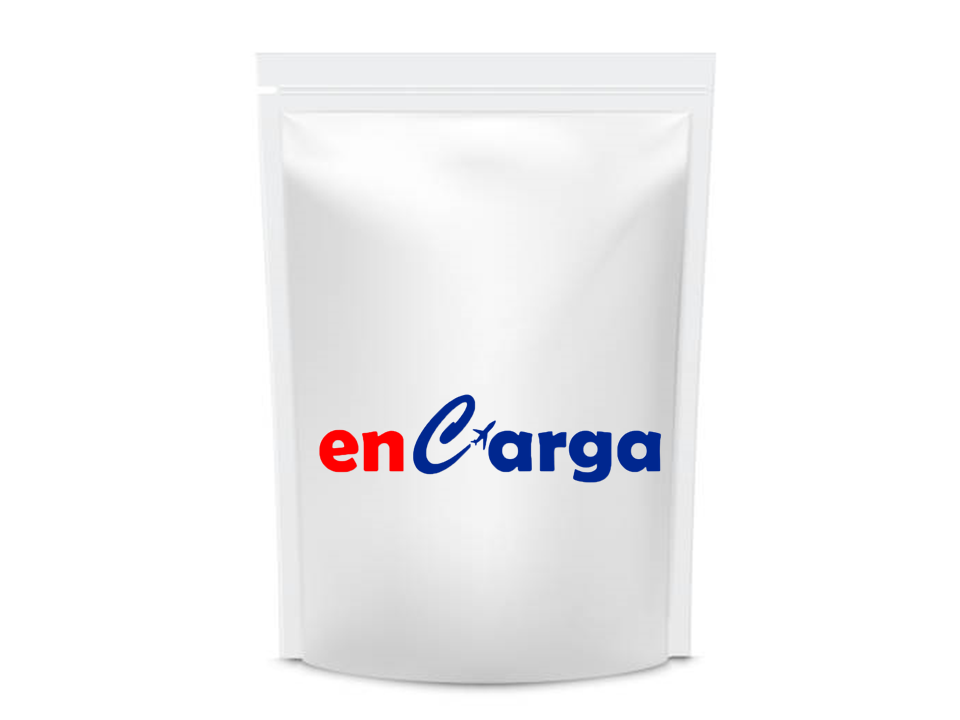
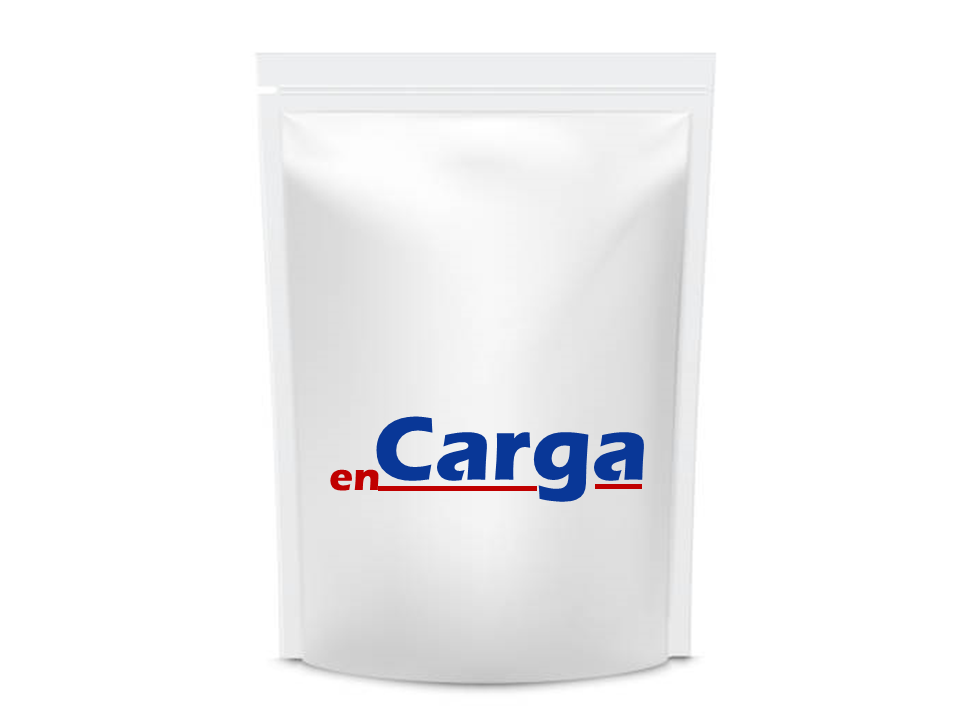
Final

Changed region(s): [[0.3125, 0.55, 0.6875, 0.7028]]

diff --git a/src/components/AboutApp.tsx b/src/components/AboutApp.tsx
@@ -10,19 +10,14 @@ import {
 export const AboutApp = () => {
   return (
     <ScrollView>
-      <Text style={{...styles.text, fontSize: 26}}>Estimado Cliente</Text>
       <Text style={{...styles.text, fontSize: 18}}>
         • enCarga es una Agencia de Envíos radicada en Ecuador con destino a
         Cuba.
       </Text>
       <Text style={{...styles.text, fontSize: 18}}>
-        • Cada artículo marcado con un número doce entre paréntesis (12)
-        significa que está comprando la docena.
-      </Text>
-      <Text style={{...styles.text, fontSize: 18}}>
-        • Cada artículo tiene un precio marcado de venta por menor, al alcanzar
-        o exceder las seis (6) unidades podrá beneficiarce de un precio de
-        productos por mayor, con un costo menor.
+        • Hacemos envíos para uso personal, o con fines comerciales. Su compra
+        se convertirá en por mayor al alcanzar o sobrepasar los 6 artículos de
+        un mismo producto, o bien los 5 bultos en su compra total.
       </Text>
       <Text style={{...styles.text, fontSize: 18}}>
         • Cada articulo marcado con una Triple A (AAA) significa que es una
@@ -30,27 +25,21 @@ export const AboutApp = () => {
         original.
       </Text>
       <Text style={{...styles.text, fontSize: 18}}>
-        • Todos los productos de la categoría Combos tienen el costo de envío
-        incluido en el precio marcado.
+        • Algunos artículos que exceden los 10kg no son entregados en su
+        domicilio; dichos productos deben ser retirados por el remitente en la
+        oficina de Aduanas de Cuba de su provincia.
       </Text>
       <Text style={{...styles.text, fontSize: 18}}>
-        • Los productos de la categoría Combos que exceden los 10kg no son
-        entregados en su domicilio; dichos productos deben ser retirados por el
-        remitente en la oficina de Aduanas de Cuba de su provincia.
-      </Text>
-      <Text style={{...styles.text, fontSize: 18}}>
-        • En la sección de compras, verá un cuadro de texto donde podrá
-        describir los detalles, como tallas, números, colores, etc.
-      </Text>
-      <Text style={{...styles.text, fontSize: 18}}>
-        • Al finalizar su compra la aplicación le enviará un mensaje vía
-        WhatsApp a un asesor de la Agencia para ultimar los detalles de su
-        compra.
+        • Al finalizar su compra un asesor le contactará vía WhatsApp lo antes
+        posible para ultimar los detalles de su pedido.
       </Text>
       <Text style={{...styles.text, fontSize: 18}}>
         • Al realizar su compra será considerada como finalizada, cualquier
         pedido extra o fuera de tiempo será considerada una compra posterior
         futura.
+      </Text>
+      <Text style={{...styles.text, fontSize: 18}}>
+        • El pago lo realizará una vez terminada y embalada su compra.
       </Text>
       <Text style={{...styles.text, fontSize: 18}}>
         • Su compra será realizada en el momento indicado debido al orden lógico
@@ -62,7 +51,7 @@ export const AboutApp = () => {
       </Text>
       <Text style={{...styles.text, fontSize: 18}}>
         • Con gusto le atenderemos por mensaje de texto al WhatsApp
-        +593962914922 o +593983597192, o al correo enviospackuba@gmail.com
+        +593962914922 o +593983597192, o al correo jmirandauria@gmail.com
       </Text>
       <Text style={{...styles.text, fontSize: 18}}>
         • enCarga se reserva el derecho de admisión tanto de clientes como de

diff --git a/src/components/TandC.tsx b/src/components/TandC.tsx
@@ -18,8 +18,8 @@ export const TandC = () => {
         divididos en 10 cada dos meses.
       </Text>
       <Text style={{...styles.text, fontSize: 18}}>
-        • El peso máximo de cada paquete es de 1.50 kilogramos, con un costo de{' '}
-        {prices.oneandhalfkgPrice} USD por paquete.
+        • El peso máximo de cada paquete de misceláneas es de 1.50 kilogramos,
+        con un costo de {prices.oneandhalfkgPrice} USD por paquete.
       </Text>
       <Text style={{...styles.text, fontSize: 18}}>
         • Los artículos que excedan los 1.50 kilogramos tienen un costo mayor de
@@ -36,15 +36,11 @@ export const TandC = () => {
       </Text>
       <Text style={{...styles.text, fontSize: 18}}>
         • Consideramos una compra por mayor para comercio a partir de seis (6)
-        piezas del mismo artículo.
+        piezas del mismo artículo, ó a partir de 5 paquetes en su pedido.
       </Text>
       <Text style={{...styles.text, fontSize: 18}}>
         • Al realizar compras por mayor las marcas, colores, números, tallas,
         etc, son surtidas.
-      </Text>
-      <Text style={{...styles.text, fontSize: 18}}>
-        • No disponemos de tiendas con productos, realizamos la compra bajo
-        pedido, por lo tanto, realizamos los encargos sin especificidades.
       </Text>
       <Text style={{...styles.text, fontSize: 18}}>
         • Las fotos exhibidas en nuestra app de ventas son referenciales, le
@@ -53,7 +49,7 @@ export const TandC = () => {
       </Text>
       <Text style={{...styles.text, fontSize: 18}}>
         • Una vez enviados sus paquetes se le enviarán los códigos de
-        seguimiento de sus paquetes de 24 horas a 72 horas laborables.
+        seguimiento de sus paquetes de manera instantánea.
       </Text>
       <Text style={{...styles.text, fontSize: 18}}>
         • Cada paquete tiene su código, es independiente a otro y así son
@@ -69,7 +65,7 @@ export const TandC = () => {
         posible.
       </Text>
       <Text style={{...styles.text, fontSize: 18}}>
-        • enCarga NO se hace responsable de sus envíos una vez entregados a
+        • enCarga se hace responsable de sus envíos, una vez entregados a
         Aduanas de Cuba y sigan su curso de destino hasta su domicilio.
       </Text>
       <Text style={{...styles.text, fontSize: 18}}>
@@ -95,7 +91,7 @@ export const TandC = () => {
       </Text>
       <Text style={{...styles.text, fontSize: 18}}>
         • Con gusto le atenderemos por mensajes de texto al WhatsApp
-        +593962914922 o +593983597192, o al correo enviospackuba@gmail.com
+        +593962914922 o +593983597192, o al correo jmirandauria@gmail.com
       </Text>
       <Text style={{...styles.text, fontSize: 18}}>
         • En su perfil de cliente ubicado en la parte inferior derecha de
@@ -129,7 +125,7 @@ export const TandC = () => {
             textAlign: 'center',
             color: '#3366BB',
           }}>
-          Link de rastreo para paquetería en Correos de Cuba
+          Rastreo en Correos de Cuba
         </Text>
       </TouchableOpacity>
 

diff --git a/src/screens/Home/HomeScreen.tsx b/src/screens/Home/HomeScreen.tsx
@@ -33,7 +33,7 @@ const {width, height} = Dimensions.get('window');
 export const HomeScreen = () => {
   const {top} = useSafeAreaInsets();
   const navigation = useNavigation();
-  const {user} = useContext(AuthContext);
+  const {user, updatePrices} = useContext(AuthContext);
   const {
     theme: {colors},
   } = useContext(ThemeContext);
@@ -55,6 +55,16 @@ export const HomeScreen = () => {
   }, [user]);
 
   useEffect(() => {
+    if (!user?.notificationTokens) {
+      obteinToken();
+    } else if (user && user.notificationTokens.length < 0) {
+      obteinToken();
+    } else {
+      console.log('ya tiene token');
+    }
+  }, [user]);
+
+  useEffect(() => {
     PushNotification.configure({
       onNotification: async function (notification) {
         /*  console.log('notification.data.click_action', notification.data); */
@@ -63,6 +73,7 @@ export const HomeScreen = () => {
           notification.data.click_action === 'UPDATE_ENVIO_NOTIFICATION_CLICK'
         ) {
           console.log('navegar Precios');
+          updatePrices();
           navigation.navigate('Settings', {screen: 'PricesScreen'});
           /*   navigation.navigate('PricesScreen'); */
         }
@@ -95,6 +106,37 @@ export const HomeScreen = () => {
     });
   }, [navigation]);
 
+  const obteinToken = () => {
+    console.log('obteinToken 1ra vez');
+    PushNotification.configure({
+      onRegister: async function (token) {
+        if (token.token) {
+          console.log('TOKEN:', token);
+          try {
+            api.put(`/users/update/${user!.id}`, {
+              notificationTokens: token.token,
+            });
+          } catch (error) {
+            console.log(error);
+          }
+        }
+      },
+      onRegistrationError: function (err) {
+        console.error(err.message, err);
+      },
+
+      permissions: {
+        alert: true,
+        badge: true,
+        sound: true,
+      },
+
+      popInitialNotification: true,
+
+      requestPermissions: true,
+    });
+  };
+
   return (
     <>
       {/* <SearchInputBar setOpenHeader={setOpenHeader} /> */}
@@ -108,12 +150,13 @@ export const HomeScreen = () => {
           backgroundColor: 'rgba(255,255,255,0.92)',
         }}>
         <Image
-          source={require('../../assets/logoEncarga.png')}
+          source={require('../../assets/logo_enc.png')}
           style={{
             alignSelf: 'center',
             marginTop: top + 6,
             height: 45,
-            width: 80,
+            width: 85,
+            resizeMode: 'contain',
             marginBottom: -2,
           }}
         />

diff --git a/src/context/auth/AuthContext.tsx b/src/context/auth/AuthContext.tsx
@@ -32,6 +32,7 @@ type AuthContextProps = {
   setShop: () => void;
   setMoney: () => void;
   refreshApp: () => void;
+  updatePrices: () => void;
   updateReciveNotifications: (user: User) => void;
   prices: Prices;
   countryCode: CountryCode;
@@ -110,7 +111,7 @@ export const AuthProvider = ({children}: any) => {
         return dispatch({type: 'notAuthenticated'});
       }
       await AsyncStorage.setItem('token', resp.data.token);
-
+      console.log('user', resp.data.user);
       dispatch({
         type: 'signUp',
         payload: {
@@ -127,6 +128,10 @@ export const AuthProvider = ({children}: any) => {
     }
   };
 
+  const updatePrices = async () => {
+    const prices = await api.get<PricesResponse>('/prices/getPrices');
+    dispatch({type: 'setPrices', payload: prices.data.prices});
+  };
   const signInPhone = async (resp: Login) => {
     try {
       dispatch({type: 'initCheck'});
@@ -294,6 +299,7 @@ export const AuthProvider = ({children}: any) => {
         setMoney,
         refreshApp,
         updateReciveNotifications,
+        updatePrices,
       }}>
       {children}
     </AuthContext.Provider>

diff --git a/src/interfaces/User.interface.tsx b/src/interfaces/User.interface.tsx
@@ -23,4 +23,5 @@ export interface User {
   theme: string;
   image: Image;
   codes: string[];
+  notificationTokens: string[];
 }
